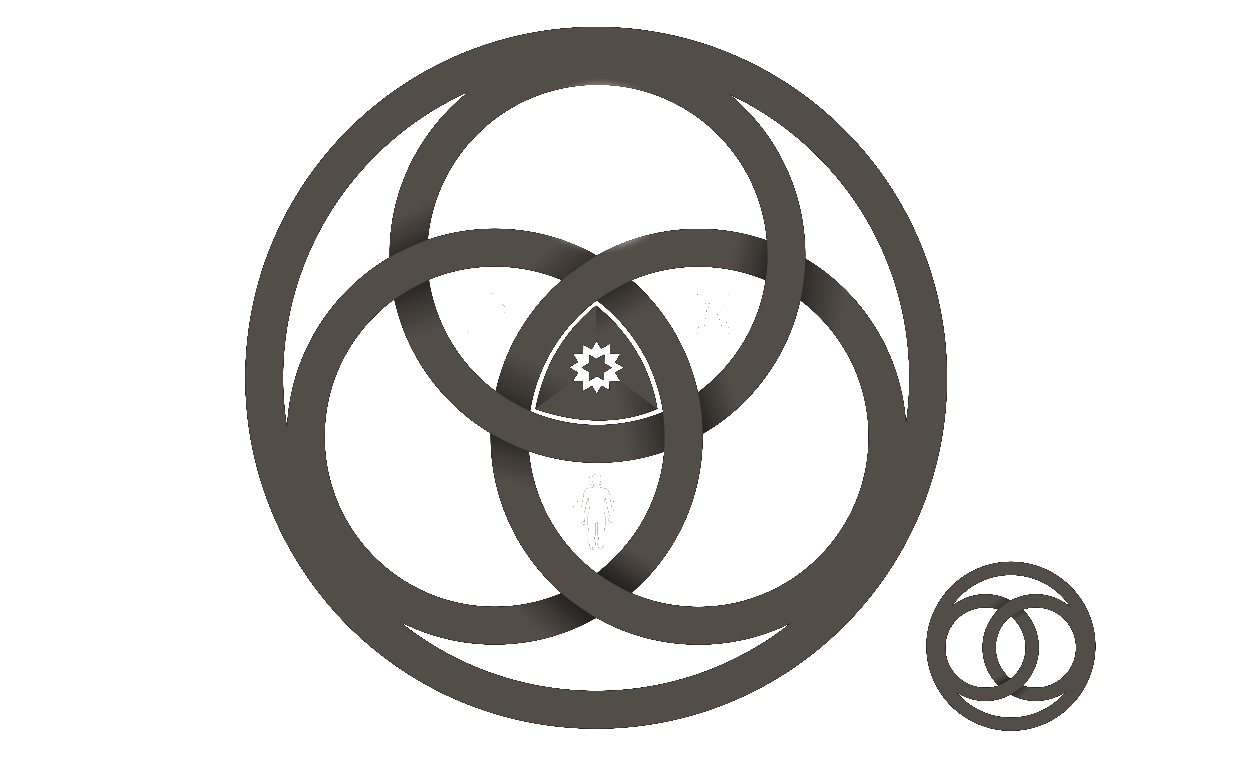
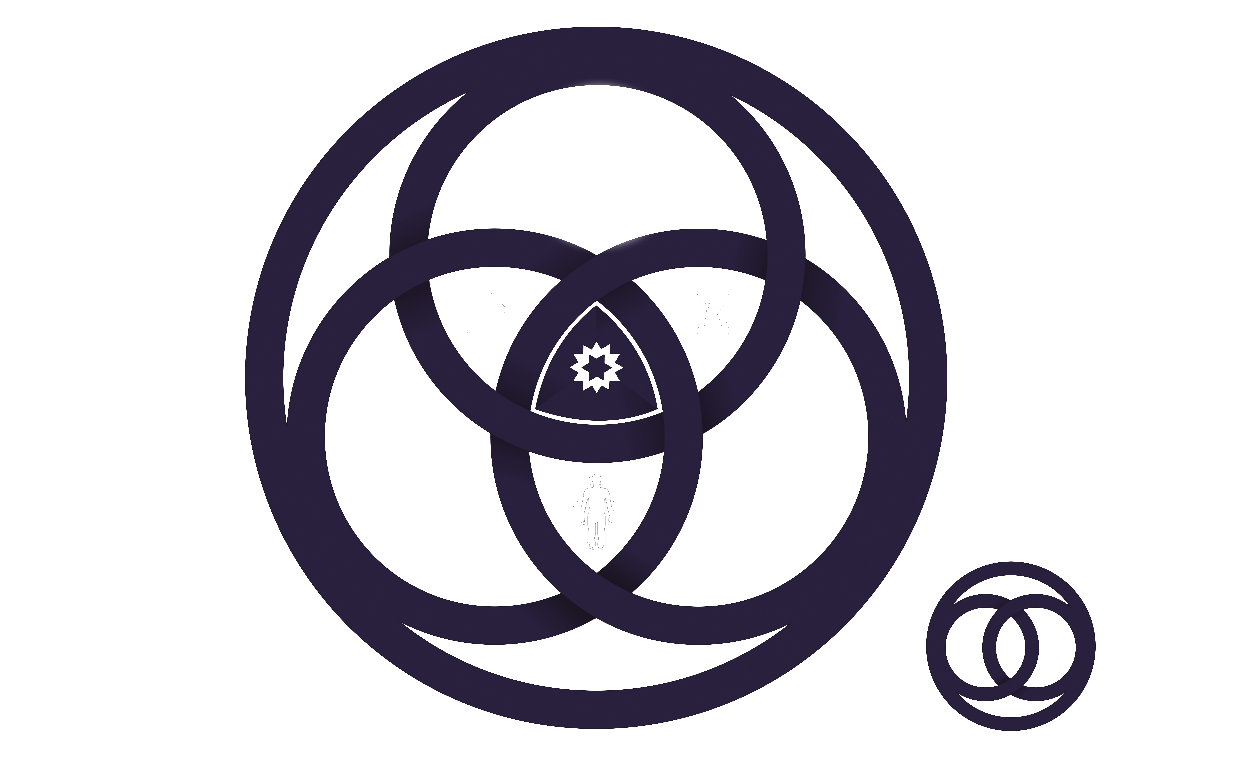
Kolo Karmy: zgaszone kregi i ikony w fiolecie #251d35 zamiast szarego taupe

Changed region(s): [[0.1857, 0.0302, 0.7738, 0.9671], [0.7119, 0.7254, 0.8667, 0.9671]]

diff --git a/components/MoonStars.tsx b/components/MoonStars.tsx
@@ -21,7 +21,7 @@ export default function MoonStars({ box, zlote = false }: {
   };
   return (
     <>
-      <img src="/brand/moonstars-taupe.png" alt="" style={wspolny} />
+      <img src="/brand/moonstars-fiolet.png" alt="" style={wspolny} />
       <img src="/brand/moonstars-gold.png" alt=""
         style={{ ...wspolny, opacity: zlote ? 1 : 0, transition: "opacity 0.7s ease" }} />
     </>

diff --git a/components/KoloKarmy.tsx b/components/KoloKarmy.tsx
@@ -141,7 +141,7 @@ function IkonaCrossfade({ id, box, zlote }: {
   };
   return (
     <>
-      <img src={`/brand/icon-${id}-taupe.png`} alt="" style={wspolny} />
+      <img src={`/brand/icon-${id}-fiolet.png`} alt="" style={wspolny} />
       <img src={`/brand/icon-${id}.png`} alt=""
         style={{ ...wspolny, opacity: zlote ? 1 : 0, transition: "opacity 0.7s ease" }} />
     </>
